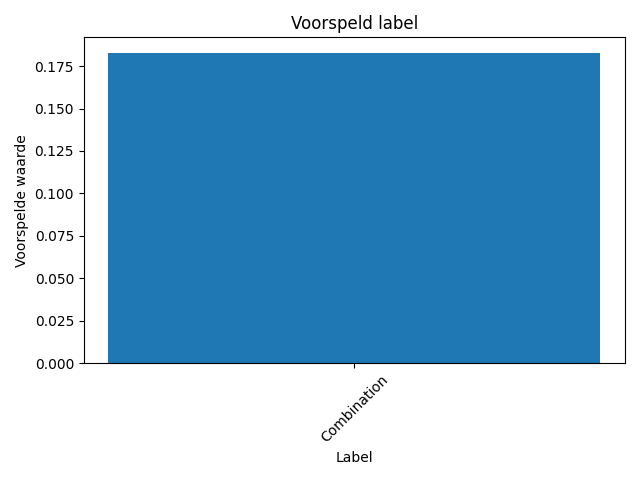
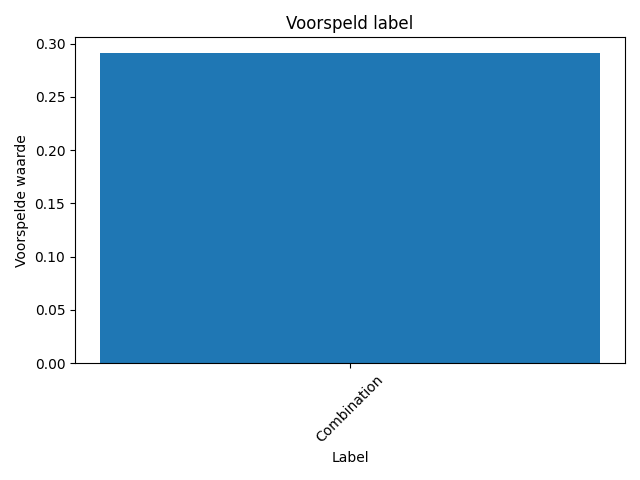
fix models and add env's

diff --git a/service/models/Seq_DenseNet_model.py b/service/models/Seq_DenseNet_model.py
@@ -1,19 +1,26 @@
+import os
+import sys
+sys.path.append(os.path.abspath(os.path.join(os.path.dirname(__file__), '..')))
+from config import settings
 import csv
 from PIL import Image
 import pickle
 import numpy as np
-import tensorflow as tf
 from sklearn.preprocessing import LabelEncoder, OneHotEncoder
 from sklearn.model_selection import train_test_split
+from sklearn.metrics import confusion_matrix
+import seaborn as sns
+import matplotlib.pyplot as plt
 from tensorflow.keras.models import Sequential
 from tensorflow.keras.layers import Conv2D, MaxPooling2D, Flatten, Dense, Dropout
+from tensorflow.keras.optimizers import Adam
 
 # Train model
 def train():
     file_names = []
     labels = []
 
-    with open('data/dataset_cleaned.csv', 'r') as csvfile:
+    with open(settings.DATASET_PATH, 'r') as csvfile:
         reader = csv.reader(csvfile)
         for row in reader:
             if row[0] != "_id":
@@ -27,9 +34,8 @@ def train():
     label_encoder = LabelEncoder()
 
     for file_name, label in zip(file_names, labels):
-        image = Image.open("data/images/" + file_name)
+        image = Image.open(settings.IMAGES_PATH + file_name)
         image = np.array(image)
-
         images.append(image)
         encoded_labels.append(label)
 
@@ -47,7 +53,7 @@ def train():
 
     # Save LabelEncoder, OneHotEncoder, encoded_labels 
     encoders = {'label_encoder': label_encoder, 'onehot_encoder': onehot_encoder, 'encoded_labels': encoded_labels}
-    with open('data/encoders.pkl', 'wb') as f:
+    with open(settings.ENCODERS_MODEL_PATH + 'encoders.pkl', 'wb') as f:
         pickle.dump(encoders, f)
 
     # Split set in trainings set and test set 
@@ -74,20 +80,41 @@ def train():
         model.add(Conv2D(best_num_filters, (best_filter_size, best_filter_size), activation='relu'))
         model.add(MaxPooling2D((2, 2)))
 
-    model.add(Flatten())
-    model.add(Dense(128, activation='relu'))
-    model.add(Dropout(best_dropout_rate))
-    model.add(Dense(mogelijke_labels_count, activation='softmax'))
+        model.add(Flatten())
+        model.add(Dense(128, activation='relu'))
+        model.add(Dropout(best_dropout_rate))
+        model.add(Dense(mogelijke_labels_count, activation='softmax'))
 
-    # compile model
-    optimizer = tf.keras.optimizers.Adam(learning_rate=best_learning_rate)
-    model.compile(optimizer=optimizer, loss='categorical_crossentropy', metrics=['accuracy'])
+        # compile model
+        optimizer = Adam(learning_rate=best_learning_rate)
+        model.compile(optimizer=optimizer, loss='categorical_crossentropy', metrics=['accuracy'])
 
-    # Train model
-    model.fit(X_train, y_train, batch_size=32, epochs=10, validation_data=(X_val, y_val))
+        # Train model
+        model.fit(X_train, y_train, batch_size=32, epochs=1, validation_data=(X_val, y_val))
 
-    # Save trained model
-    with open('data/getraind_model.pkl', 'wb') as file:
-        pickle.dump(model, file)
+        # Generate predictions for the test data
+        y_pred = model.predict(X_test)
+        y_pred = np.argmax(y_pred, axis=1)
 
+        # Convert one-hot encoded y_test to multiclass format
+        y_test_multiclass = np.argmax(y_test, axis=1)
+
+        # Calculate the confusion matrix
+        cm = confusion_matrix(y_test_multiclass, y_pred)
+
+        # Bouw het pad naar de "static" map op
+        cm_folder = os.path.join("./app/static", "cm")
+        os.makedirs(os.path.join(cm_folder), exist_ok=True)
+        
+        # Plot the confusion matrix using seaborn
+        plt.figure(figsize=(10, 8))
+        sns.heatmap(cm, annot=True, fmt='d', cmap='Blues', cbar=False)
+        plt.xlabel('Predicted labels')
+        plt.ylabel('True labels')
+        plt.title('Confusion Matrix')
+        plt.savefig(cm_folder + '/seq_confusion_matrix.png')
+
+        # Save trained model
+        with open(settings.ENCODERS_MODEL_PATH + 'seq_trained_model.pkl', 'wb') as file:
+            pickle.dump(model, file)
 

diff --git a/service/app/main.py b/service/app/main.py
@@ -3,7 +3,7 @@ import sys
 sys.path.append(os.path.abspath(os.path.join(os.path.dirname(__file__), '..')))
 from config import settings
 from database.connection import MongoDBConnection
-from train_model.train_model import train
+from models.Seq_DenseNet_model import train
 import pickle
 import matplotlib.pyplot as plt
 import numpy as np
@@ -14,7 +14,7 @@ from flask_swagger import swagger
 from tensorflow.keras.preprocessing import image
 from werkzeug.utils import secure_filename
 
-if settings.TRAIN_MODEL == True:
+if not os.path.exists(settings.ENCODERS_MODEL_PATH + 'encoders.pkl') or not os.path.exists(settings.ENCODERS_MODEL_PATH + 'seq_trained_model.pkl') or settings.TRAIN_MODEL == True:
     train()
 
 app = Flask(__name__, static_folder='static')
@@ -56,16 +56,39 @@ def classify():
       200:
         description: OK
     """
-    with open('./data/getraind_model.pkl', 'rb') as f:
-            model = pickle.load(f)
-    with open('./data/encoders.pkl', 'rb') as f:
-            loaded_encoders = pickle.load(f)
+    with open(settings.ENCODERS_MODEL_PATH + 'seq_trained_model.pkl', 'rb') as f:
+        model = pickle.load(f)
+    with open(settings.ENCODERS_MODEL_PATH + 'encoders.pkl', 'rb') as f:
+        loaded_encoders = pickle.load(f)
     label_encoder = loaded_encoders['label_encoder']
 
     image_files = request.files.getlist('imageFiles')
+    
+    # clean old images and plots
     images_folder = os.path.join(app.static_folder, "received_images")
-    # Create folder for saving images
+    plots_folder = os.path.join(app.static_folder, "plots")
+    
+    if(os.path.exists(images_folder)):
+        for image_name in os.listdir(images_folder):
+            file_path = os.path.join(images_folder, image_name)
+            try:
+                if os.path.isfile(file_path) or os.path.islink(file_path):
+                    os.unlink(file_path)
+            except Exception as e:
+                print('Failed to delete %s. Reason: %s' % (file_path, e))    
+    if(os.path.exists(plots_folder)):
+            for plot_name in os.listdir(plots_folder):
+                file_path = os.path.join(plots_folder, plot_name)
+                try:
+                    if os.path.isfile(file_path) or os.path.islink(file_path):
+                        os.unlink(file_path)
+                except Exception as e:
+                    print('Failed to delete %s. Reason: %s' % (file_path, e))    
+      
+    # Create folder for saving images and plots
     os.makedirs(images_folder, exist_ok=True)
+    os.makedirs(plots_folder, exist_ok=True)
+    
     response = []
 
     for image_file in image_files:
@@ -82,11 +105,8 @@ def classify():
 
         decoded_predictions = label_encoder.inverse_transform(np.argmax(predictions, axis=1))
         decoded_possible_labels = label_encoder.inverse_transform(np.argsort(-predictions, axis=1)[:, :3].ravel())
-
-        plots_folder = os.path.join(app.static_folder, "plots")
-        os.makedirs(os.path.join(plots_folder), exist_ok=True)
         
-         # Plot possible label top 1 pick
+        # Plot possible label top 1 pick
         fig, ax = plt.subplots()
         ax.bar(decoded_predictions, np.max(predictions, axis=1))
         ax.set_xlabel('Label')

diff --git a/service/config/settings.py b/service/config/settings.py
@@ -8,4 +8,9 @@ DATABASE_NAME = os.getenv("DATABASE_NAME") or "big_data"
 DATABASE_URL = os.getenv("DATABASE_URL") or f"mongodb://{USERNAME}:{PASSWORD}@localhost:27017/{DATABASE_NAME}?authSource=admin"
 COLLECTION_NAME = os.getenv("COLLECTION_NAME") or "dataset_cleaned"
 TRAIN_MODEL = os.getenv("TRAIN_MODEL") or False
+IMAGES_PATH = os.getenv("IMAGES_PATH") or "./data/images/"
+DATASET_PATH = os.getenv("DATASET_PATH") or "./data/dataset_cleaned.csv"
+ENCODERS_MODEL_PATH = os.getenv("TARGET_PATH_NEW_MODEL") or "./data/"
+
+
 
